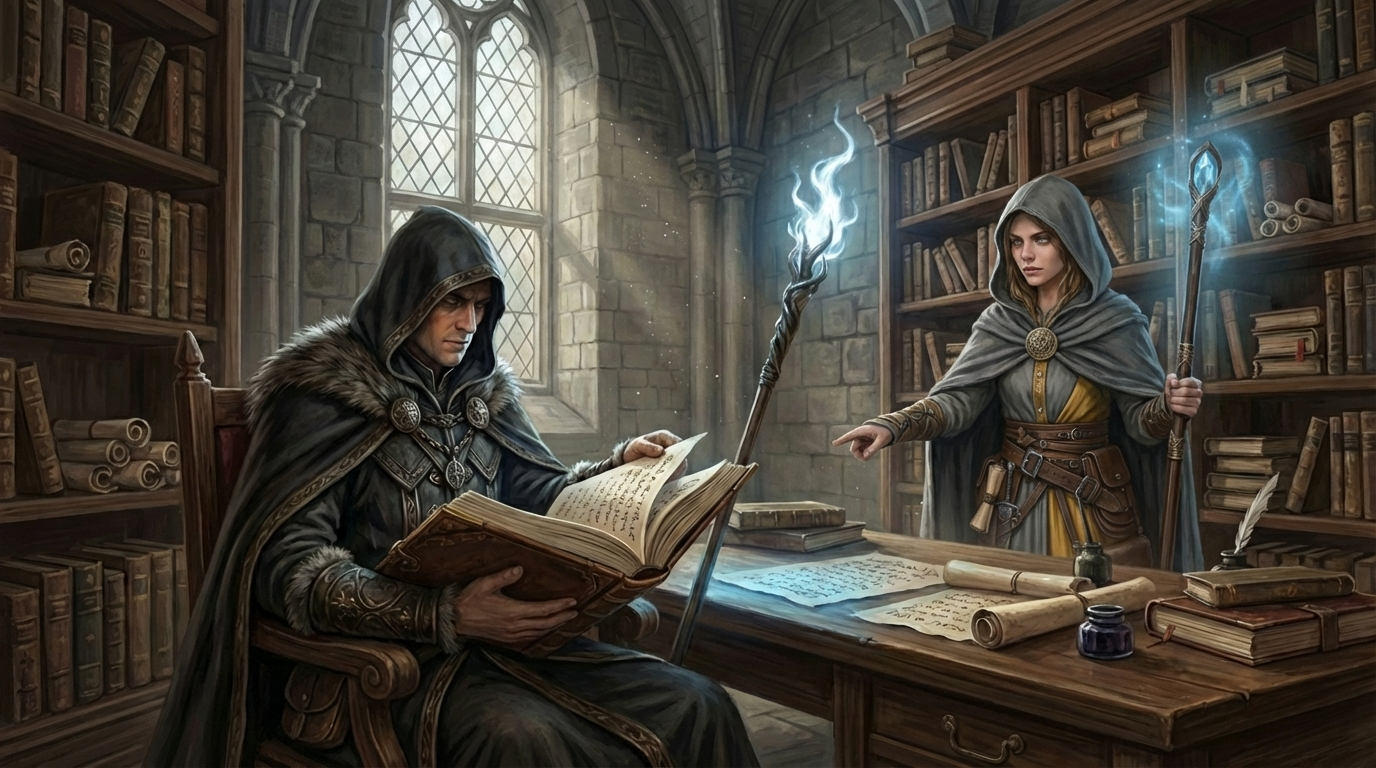
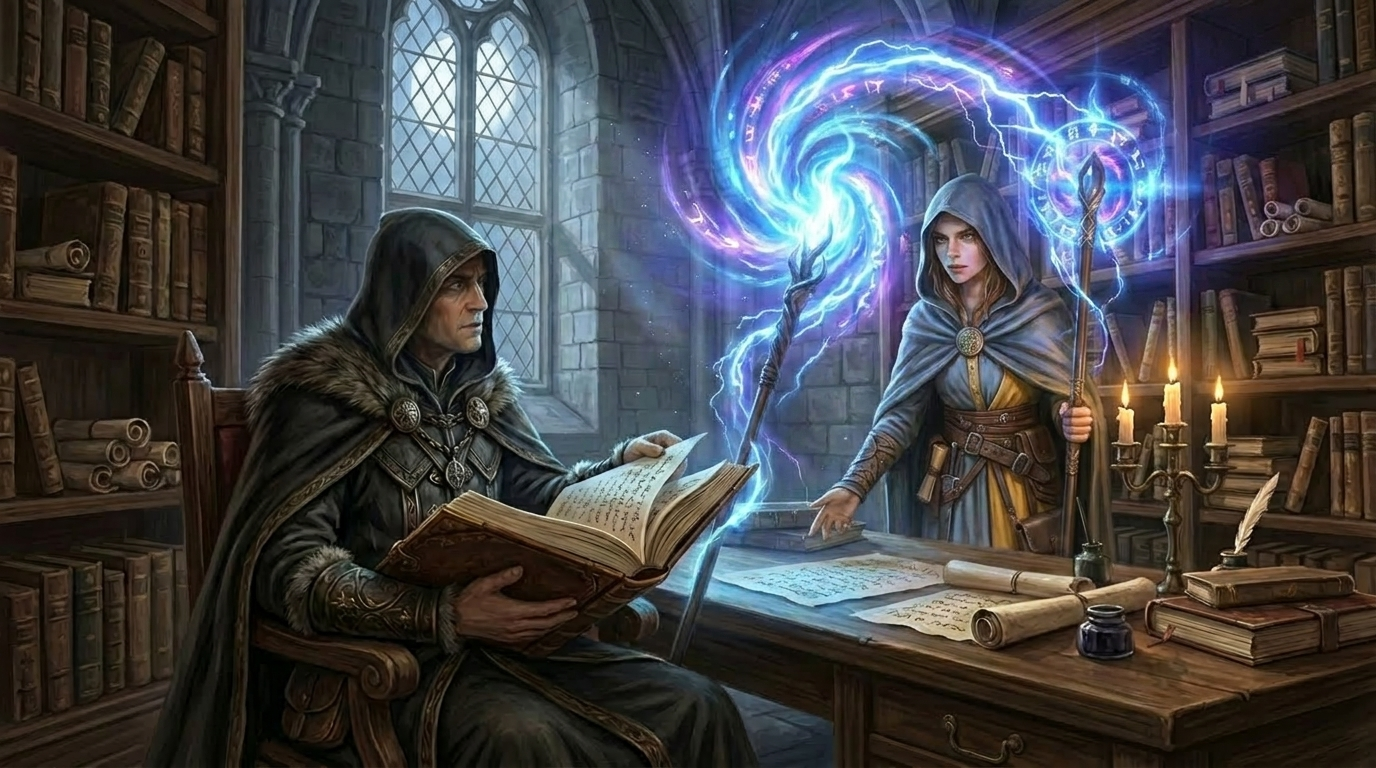
images up to scene 118

diff --git a/data.js b/data.js
@@ -844,7 +844,7 @@ window.storyScenes = [
         slideNumber: 106,
         audioSrc: "TheChroniclesOfGatan-Audio.mp3",
         startTime: 1215,
-        image: "assets/images/TODO:scene106_ambrosius_delves_into_mysteries.jpeg",
+        image: "assets/images/scene106_ambrosius_and_deean_study.jpeg",
         panAnimation: "left-to-right",
         text: "Long hours they spent in discourse, the flickering candles casting shadows upon parchments old, as Ambrosius sought to plumb the depths of knowledge that she, an Imperial Wizard, held in her keeping."
     },
@@ -852,96 +852,96 @@ window.storyScenes = [
         slideNumber: 107,
         audioSrc: "TheChroniclesOfGatan-Audio.mp3",
         startTime: 1230,
-        image: "assets/images/Bors.png",
-        panAnimation: "top-to-bottom",
+        image: "assets/images/scene107_evelyn_and_martin_scout.jpeg",
+        panAnimation: "left-to-right",
         text: "Evelyn Greenvale, huntress of the wilds, roamed far afield with Martin Longbow, the fort’s chief scout, whose tread was silent as the wind upon the grass."
     },
     {
         slideNumber: 108,
         audioSrc: "TheChroniclesOfGatan-Audio.mp3",
         startTime: 1242,
-        image: "assets/images/Bors.png",
-        panAnimation: "top-to-bottom",
+        image: "assets/images/scene108_evelyn_and_martin_scout.jpeg",
+        panAnimation: "left-to-right",
         text: "Together they mastered the art of reading the land about the fort, her senses sharpened to its every whisper—the rustle of leaves, the faint track of beast or foe, the murmur of streams beneath the earth."
     },
     {
         slideNumber: 109,
         audioSrc: "TheChroniclesOfGatan-Audio.mp3",
         startTime: 1258,
-        image: "assets/images/Bors.png",
-        panAnimation: "top-to-bottom",
+        image: "assets/images/scene109_evelyn_and_martin_scout.jpeg",
+        panAnimation: "left-to-right",
         text: "Through wooded vale and windswept hill she honed her craft, her eyes keen as the hawk’s, learning the secrets of the wilds from one whose life had been spent in their embrace."
     },
     {
         slideNumber: 110,
         audioSrc: "TheChroniclesOfGatan-Audio.mp3",
         startTime: 1271,
-        image: "assets/images/Bors.png",
-        panAnimation: "top-to-bottom",
+        image: "assets/images/scene110_bors_ivan_training.jpeg",
+        panAnimation: "left-to-right",
         text: "Bors and Ivan, warriors of iron will, bent their days to the clangor of steel, training beneath the stern eye of Captain Miller, a soldier seasoned by countless campaigns."
     },
     {
         slideNumber: 111,
         audioSrc: "TheChroniclesOfGatan-Audio.mp3",
         startTime: 1284,
-        image: "assets/images/Bors.png",
-        panAnimation: "top-to-bottom",
+        image: "assets/images/scene111_bors_ivan_training.jpeg",
+        panAnimation: "left-to-right",
         text: "Their blades met in a martial dance, ringing with the song of war, as Miller’s weathered hand honed their skill to a razor’s edge."
     },
     {
         slideNumber: 112,
         audioSrc: "TheChroniclesOfGatan-Audio.mp3",
         startTime: 1294,
-        image: "assets/images/Bors.png",
-        panAnimation: "top-to-bottom",
+        image: "assets/images/scene112_bors_ivan_training.jpeg",
+        panAnimation: "left-to-right",
         text: "Each clash of sword and shield was a lesson wrought in sweat and strength, their prowess growing ever sharper under his tutelage, a testament to the fort’s unyielding resolve."
     },
     {
         slideNumber: 113,
         audioSrc: "TheChroniclesOfGatan-Audio.mp3",
         startTime: 1307,
-        image: "assets/images/Bors.png",
-        panAnimation: "top-to-bottom",
+        image: "assets/images/scene113_dargon_ventures_forth.jpeg",
+        panAnimation: "left-to-right",
         text: "Dargon, son of Zoltran, ventured forth on perilous missions beside Miller and Martin, his youthful spirit tempered anew in the crucible of battle’s fire."
     },
     {
         slideNumber: 114,
         audioSrc: "TheChroniclesOfGatan-Audio.mp3",
         startTime: 1319,
-        image: "assets/images/Bors.png",
-        panAnimation: "top-to-bottom",
+        image: "assets/images/scene114_dargon_ventures_forth.jpeg",
+        panAnimation: "left-to-right",
         text: "Oft he returned bearing the marks of strife—wounds etched upon his flesh, his frame weary yet unbowed, his once-boundless zeal now forged into a steady determination."
     },
     {
         slideNumber: 115,
         audioSrc: "TheChroniclesOfGatan-Audio.mp3",
         startTime: 1332,
-        image: "assets/images/Bors.png",
-        panAnimation: "top-to-bottom",
+        image: "assets/images/scene115_dargon_ventures_forth.jpeg",
+        panAnimation: "left-to-right",
         text: "Through trial and blood he was sculpted, emerging as a leader worthy of men’s fealty, his heart resolute, his eyes fixed upon a horizon of duty and honor, a transformation borne of the wilds and the blade."
     },
     {
         slideNumber: 116,
         audioSrc: "TheChroniclesOfGatan-Audio.mp3",
         startTime: 1348,
-        image: "assets/images/Bors.png",
-        panAnimation: "top-to-bottom",
+        image: "assets/images/scene116_snakebite_pass_sealed.jpeg",
+        panAnimation: "left-to-right",
         text: "Yet shadowed tidings came to mar their labors: word reached the fort that the pass through Snakebite Pass remained sealed by the restless dead of Hilltop, their spectral wrath barring the flow of supplies so direly needed."
     },
     {
         slideNumber: 117,
         audioSrc: "TheChroniclesOfGatan-Audio.mp3",
         startTime: 1365,
-        image: "assets/images/Bors.png",
-        panAnimation: "top-to-bottom",
+        image: "assets/images/scene117_snakebite_pass_sealed.jpeg",
+        panAnimation: "left-to-right",
         text: "The wagons faltered, unable to breach the veil of spirits, leaving the fort’s stores to dwindle, a silent threat amid their vigilance."
     },
     {
         slideNumber: 118,
         audioSrc: "TheChroniclesOfGatan-Audio.mp3",
         startTime: 1375,
-        image: "assets/images/Bors.png",
-        panAnimation: "top-to-bottom",
+        image: "assets/images/scene118_deean_departs.jpeg",
+        panAnimation: "left-to-right",
         text: "And in those days, Deean departed northward on an errand cloaked in urgency, her purpose veiled from all save her own counsel."
     },
     {
